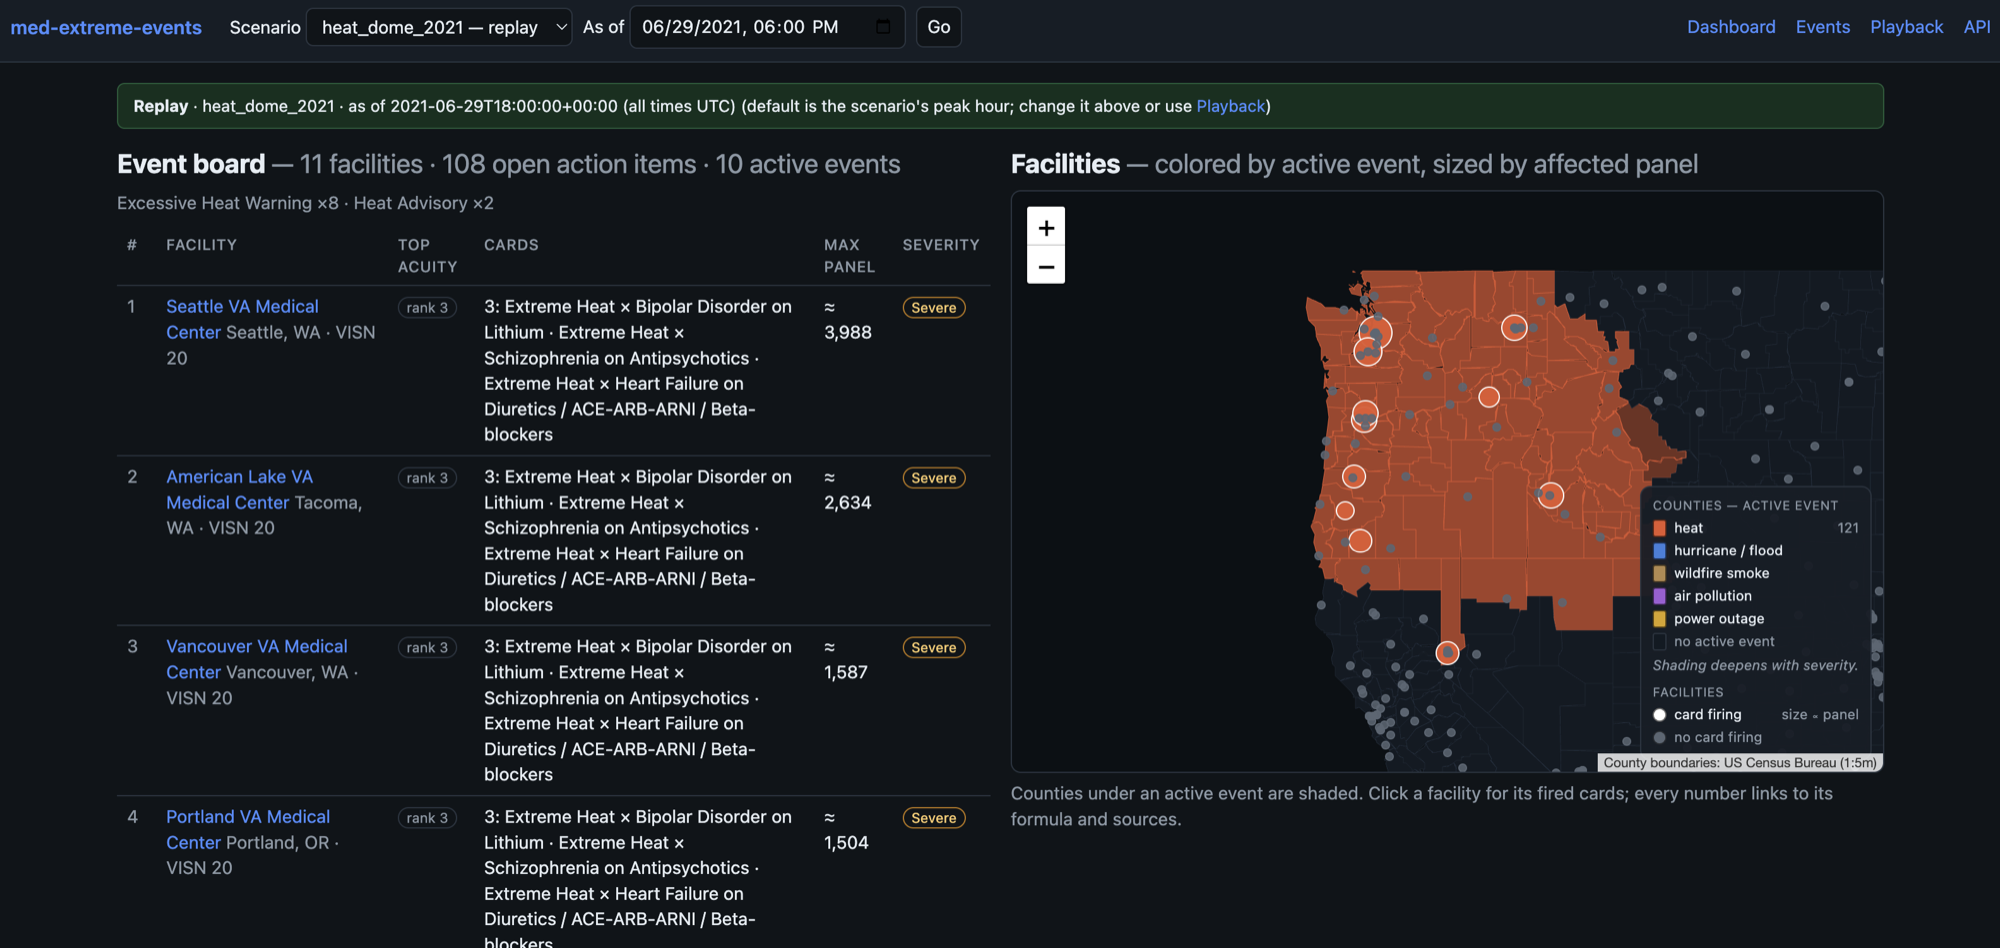
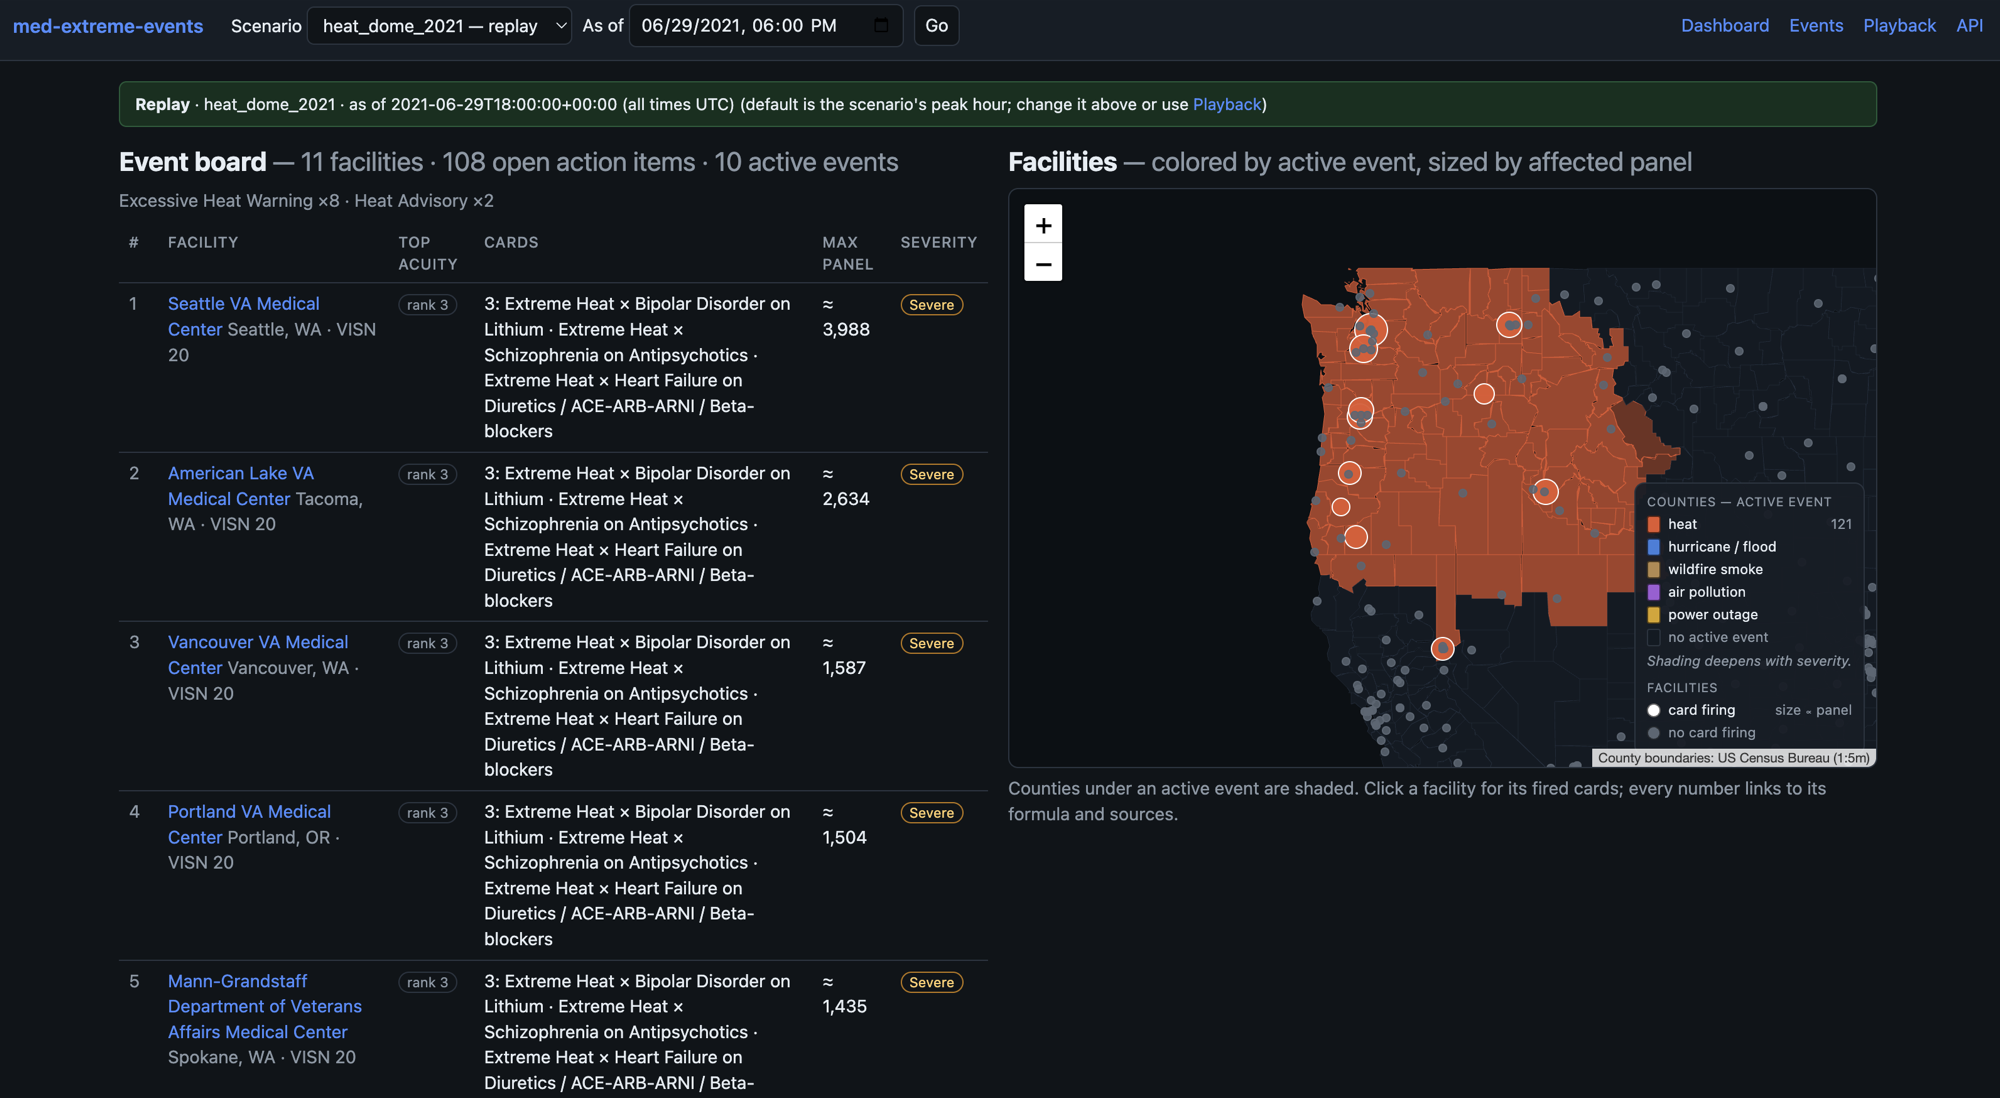
Replace the guide screenshots with ones taken on the fixed playback
The earlier playback shot showed flood counties leaked from the live view. The new set has
the playback overview, the same moment with one card isolated, and the dashboard.

diff --git a/docs/guide/events-and-playback.md b/docs/guide/events-and-playback.md
@@ -114,13 +114,19 @@ archive and HMS providers (see `_common.py`) and writes `events.json` with
 `/playback` is the layer's main screen: a US map, a side panel and a timeline, all driven by
 one time cursor *t*.
 
-![Playback of the 2021 heat dome at 2021-07-02 03:00Z, with the lithium card selected](images/playback-heat-dome-card.png)
+![Playback of the 2021 heat dome at 2021-07-02 00:00Z](images/playback-heat-dome.png)
 
-*The `heat_dome_2021` replay at 2021-07-02 03:00Z, the peak of the Excessive Heat
-Warnings. Heat-shaded counties cover WA and OR. The card legend at the lower right has
-isolated Card 1 (heat × lithium). Its chips mark the 7 stations where it fires, and the side
-panel shows the card's care-team text and safety line. The timeline at the bottom has one
-lane per NWS product, and the playhead is at t.*
+*The `heat_dome_2021` replay at 2021-07-02 00:00Z. Eight heat events are active across
+WA, OR and ID. Seven stations each carry a stack of three card chips (Cards 1, 2 and 4).
+The side panel lists the cards firing now, with their largest panels, and the events now,
+with their windows. The timeline at the bottom has one lane per NWS product: watches are
+the short ticks, warnings the long bars, and the playhead is at t.*
+
+![The same moment with the lithium card isolated](images/playback-heat-dome-card.png)
+
+*Clicking Card 1 (heat × lithium) in the legend isolates it. Only its chips remain on the
+map, and the side panel opens the card: when and where it fires, the estimated panel
+across those stations, and the reviewed care-team text. The breadcrumb and × close it.*
 
 **Choosing what to watch.** Use the **View** selector to pick a replay scenario, or
 **live (now) — last 2 weeks**. The URL parameter `?scenario=` selects it directly, and the

diff --git a/docs/guide/medical-layer.md b/docs/guide/medical-layer.md
@@ -190,8 +190,8 @@ accounts.
 Clicking a card filters the map to where that card fires and opens the card itself: its
 summary, acuity, evidence tier, window, role text, safety line, escalation signs, citations,
 the facilities with their panels, and the carbon panel. Card text is fetched from `/cards`,
-so no clinical wording is duplicated in JavaScript. For a screenshot of a selected card, see
-[events-and-playback.md §5](events-and-playback.md#5-using-the-playback-view).
+so no clinical wording is duplicated in JavaScript. For screenshots of the overlay and a
+selected card, see [events-and-playback.md §5](events-and-playback.md#5-using-the-playback-view).
 
 ## 7. Carbon panel (display only)
 
